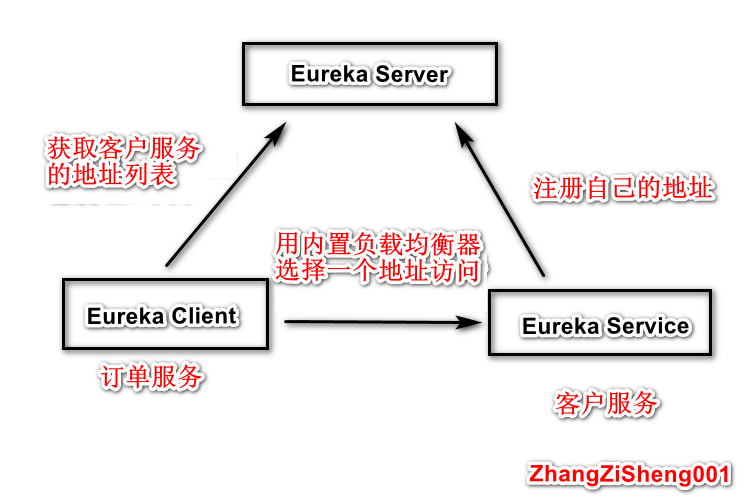
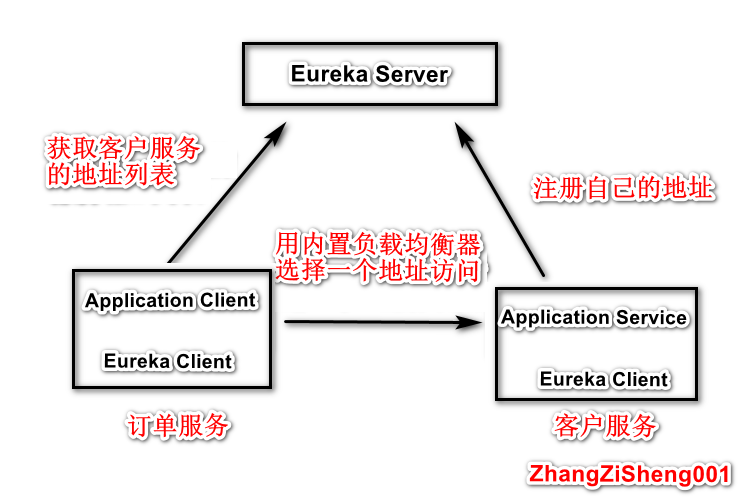
更改Eureka Client的定义等

Changed region(s): [[0.0617, 0.509, 0.37, 0.8982], [0.6475, 0.5689, 0.9866, 0.8982]]

diff --git a/Eureka详解系列(一)--先谈谈负载均衡器.md b/Eureka详解系列(一)--先谈谈负载均衡器.md
@@ -69,8 +69,8 @@ SLB 配置上要比传统的 nginx 简单很多，只要配置好监听就行。
 后来，我发现了一个更好的方案，那就是 Eureka。和 SLB 不同，**Eureka 是专门针对 mid-tier services 的负载均衡器**。它主要包含三个部分：
 
 1. Eureka Server：存放服务名和服务对应地址的映射表，这就是我们常说的服务注册中心。开篇的时候我说过，“Eureka 是一个服务注册中心”这种说法是片面的，这里就能知道原因了吧。
-2. Eureka Service：服务提供方，向 Eureka Server 注册自己的地址。例如，mid-tier services 所在应用就属于这一类。
-3. Eureka Client：服务消费方，从 Eureka Server 获取 Eureka Service 的地址，并消费对应的服务，它包含内置的负载均衡器。例如，订单服务调用客户服务的 mid-tier services，那么订单服务就是一个 Eureka Client。
+2. Eureka Client for application service：服务提供方，向 Eureka Server 注册自己的地址。例如，mid-tier services 所在应用就属于这一类。
+3. Eureka Client for application client：服务消费方，从 Eureka Server 获取 application service 的地址，并消费对应的服务，它包含内置的负载均衡器。例如，订单服务调用客户服务的 mid-tier services，那么订单服务就是一个 application client。
 
 当然，这三个部分都可以进行横向的扩展。
 
@@ -84,7 +84,7 @@ SLB 配置上要比传统的 nginx 简单很多，只要配置好监听就行。
 
 Eureka 作为一个专门针对 mid-tier services 的负载均衡器，相比 SLB 等，还是存在很多优点。
 
-<img src="https://img2020.cnblogs.com/blog/1731892/202101/1731892-20210122141633825-1237535762.png" style="zoom:67%;" />
+<img src="https://img2020.cnblogs.com/blog/1731892/202101/1731892-20210126102216106-1435991969.png" alt="zzs_eureka_08" style="zoom:67%;" />
 
 1. **Eureka 的服务注册是无状态**。如果我新增了一百个新的服务，SLB 需要配置一百个对应的监听，而 Eureka Server 什么都不需要做，你只要注册上来就行，扩展起来非常方便。说的直白一点，SLB 知道自己将处理哪些服务，而 Eureka Server 不会事先知道。
 2. **Eureka Server 挂了，Eureka Client 还可以正常消费服务**。Eureka Client 本地会缓存服务地址，即使 Eureka Server 挂了，它还是能够正常消费服务。
@@ -95,7 +95,7 @@ Eureka 作为一个专门针对 mid-tier services 的负载均衡器，相比 SL
 
 # 参考资料
 
-https://github.com/Netflix/eureka/wiki/Eureka-at-a-glance
+[Eureka github文档](https://github.com/Netflix/eureka/wiki/Eureka-at-a-glance)
 
 > 相关源码请移步：[https://github.com/ZhangZiSheng001/eureka-demo](https://github.com/ZhangZiSheng001/eureka-demo)
 
